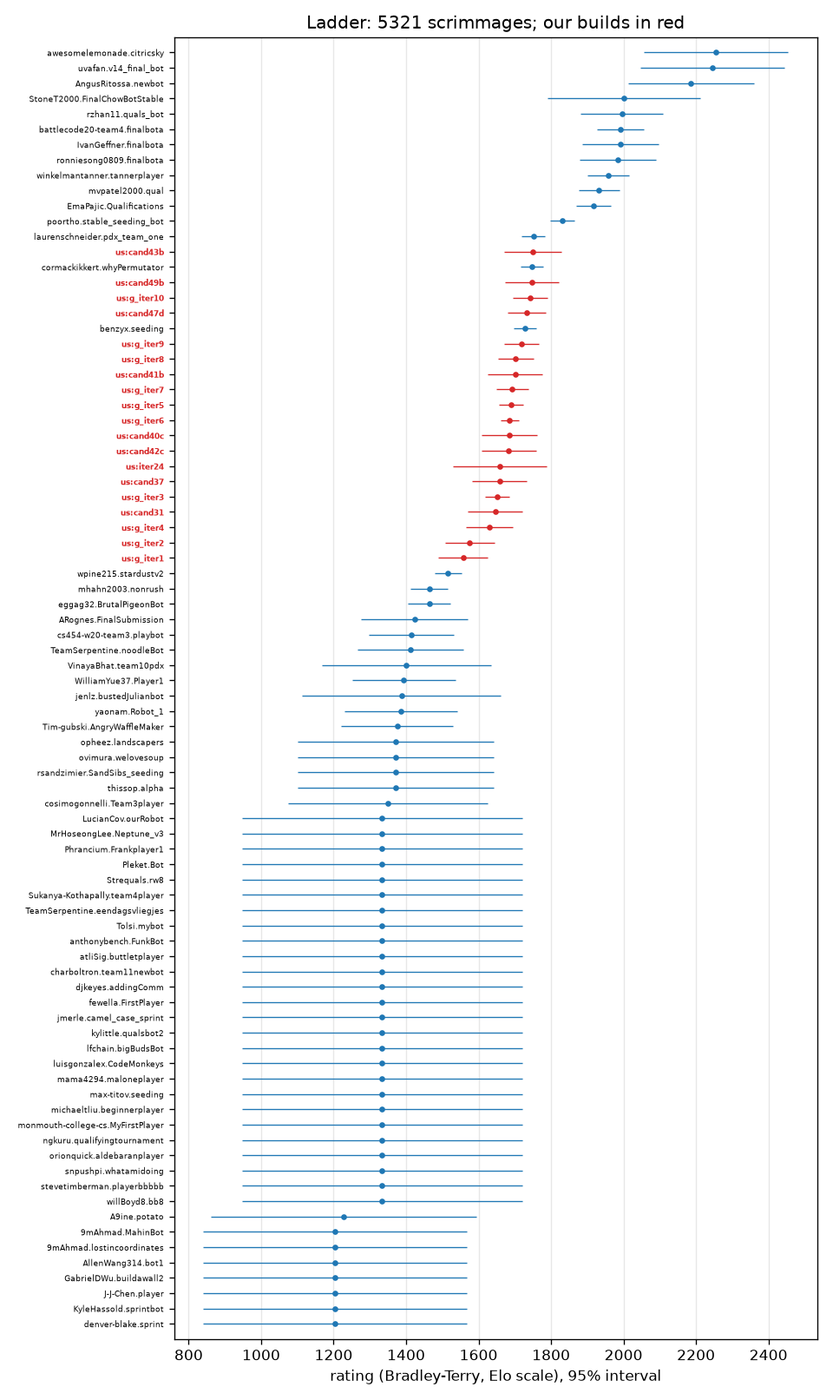
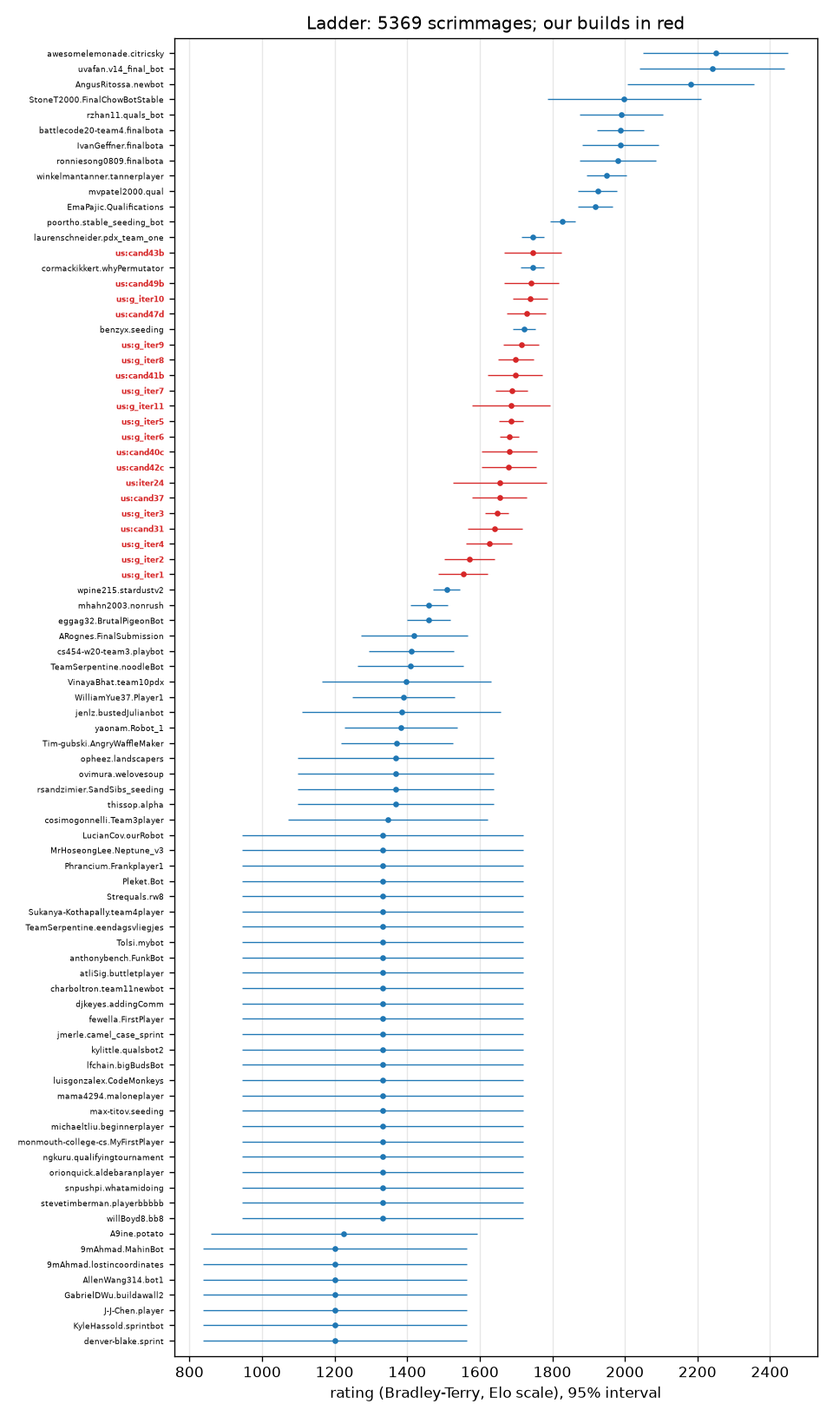
Submission block 20260926-011009-scrim-g_iter11 posted (g_iter11)
Claude-Session: https://claude.ai/code/session_015tNyF5ucwWW1mudpEQTT25

diff --git a/progress/ELO.md b/progress/ELO.md
@@ -1,114 +1,116 @@
 # Ladder
 
-5321 scrimmages (ours only), 4797 distinct (a repeated pairing with the same seed replays the same game and counts once), rated by a batch Bradley-Terry fit on the Elo scale (`tools/elolib.py`); each of our builds is its own player. 65 of 65 ladder bots met.
+5369 scrimmages (ours only), 4845 distinct (a repeated pairing with the same seed replays the same game and counts once), rated by a batch Bradley-Terry fit on the Elo scale (`tools/elolib.py`); each of our builds is its own player. 65 of 65 ladder bots met.
 
 Our builds (rating +- 95%; field score = expected score against every ladder bot, one game each):
 
 | build | rating | rank | games | record | field score |
 |---|---|---|---|---|---|
-| cand43b | 1750 +- 79 | 14 of 84 | 96 | 64-32 | 76.0% |
-| cand49b | 1747 +- 74 | 16 of 84 | 96 | 42-54 | 75.8% |
-| g_iter10 | 1743 +- 47 | 17 of 84 | 240 | 103-137 | 75.6% |
-| cand47d | 1733 +- 53 | 18 of 84 | 192 | 73-119 | 75.0% |
-| g_iter9 | 1718 +- 48 | 20 of 84 | 240 | 78-162 | 74.1% |
-| g_iter8 | 1703 +- 49 | 21 of 84 | 240 | 108-132 | 73.1% |
-| cand41b | 1701 +- 76 | 22 of 84 | 96 | 51-45 | 73.0% |
-| g_iter7 | 1692 +- 44 | 23 of 84 | 288 | 135-153 | 72.4% |
-| g_iter5 | 1690 +- 34 | 24 of 84 | 618 | 329-289 | 72.3% |
-| g_iter6 | 1686 +- 26 | 25 of 84 | 886 | 450-436 | 72.0% |
-| cand40c | 1686 +- 77 | 26 of 84 | 96 | 57-39 | 72.0% |
-| cand42c | 1684 +- 76 | 27 of 84 | 96 | 49-47 | 71.9% |
-| iter24 | 1659 +- 129 | 28 of 84 | 46 | 11-35 | 70.2% |
-| cand37 | 1658 +- 76 | 29 of 84 | 96 | 46-50 | 70.1% |
-| g_iter3 | 1651 +- 33 | 30 of 84 | 796 | 167-629 | 69.6% |
-| cand31 | 1645 +- 76 | 31 of 84 | 96 | 52-44 | 69.2% |
-| g_iter4 | 1630 +- 64 | 32 of 84 | 217 | 43-174 | 68.1% |
-| g_iter2 | 1576 +- 69 | 33 of 84 | 192 | 44-148 | 63.7% |
-| g_iter1 | 1557 +- 69 | 34 of 84 | 170 | 95-75 | 62.1% |
+| cand43b | 1746 +- 79 | 14 of 85 | 96 | 64-32 | 75.9% |
+| cand49b | 1742 +- 74 | 16 of 85 | 96 | 42-54 | 75.7% |
+| g_iter10 | 1739 +- 47 | 17 of 85 | 240 | 103-137 | 75.5% |
+| cand47d | 1729 +- 53 | 18 of 85 | 192 | 73-119 | 74.9% |
+| g_iter9 | 1714 +- 48 | 20 of 85 | 240 | 78-162 | 74.0% |
+| g_iter8 | 1699 +- 49 | 21 of 85 | 240 | 108-132 | 73.1% |
+| cand41b | 1697 +- 76 | 22 of 85 | 96 | 51-45 | 73.0% |
+| g_iter7 | 1688 +- 44 | 23 of 85 | 288 | 135-153 | 72.4% |
+| g_iter11 | 1687 +- 107 | 24 of 85 | 48 | 18-30 | 72.3% |
+| g_iter5 | 1686 +- 34 | 25 of 85 | 618 | 329-289 | 72.2% |
+| g_iter6 | 1682 +- 26 | 26 of 85 | 886 | 450-436 | 71.9% |
+| cand40c | 1682 +- 77 | 27 of 85 | 96 | 57-39 | 71.9% |
+| cand42c | 1680 +- 76 | 28 of 85 | 96 | 49-47 | 71.8% |
+| iter24 | 1655 +- 129 | 29 of 85 | 46 | 11-35 | 70.1% |
+| cand37 | 1654 +- 76 | 30 of 85 | 96 | 46-50 | 70.0% |
+| g_iter3 | 1647 +- 33 | 31 of 85 | 796 | 167-629 | 69.5% |
+| cand31 | 1641 +- 76 | 32 of 85 | 96 | 52-44 | 69.1% |
+| g_iter4 | 1626 +- 64 | 33 of 85 | 217 | 43-174 | 67.9% |
+| g_iter2 | 1571 +- 69 | 34 of 85 | 192 | 44-148 | 63.6% |
+| g_iter1 | 1554 +- 69 | 35 of 85 | 170 | 95-75 | 62.1% |
 
 | rank | player | rating | +- 95% | games | W-L |
 |---|---|---|---|---|---|
-| 1 | awesomelemonade.citricsky | 2255 | 200 | 103 | 101-2 |
-| 2 | uvafan.v14_final_bot | 2245 | 200 | 98 | 96-2 |
-| 3 | AngusRitossa.newbot | 2186 | 174 | 95 | 92-3 |
-| 4 | StoneT2000.FinalChowBotStable | 2001 | 212 | 21 | 19-2 |
-| 5 | rzhan11.quals_bot | 1995 | 115 | 86 | 77-9 |
-| 6 | battlecode20-team4.finalbota | 1992 | 65 | 226 | 195-31 |
-| 7 | IvanGeffner.finalbota | 1992 | 105 | 101 | 90-11 |
-| 8 | ronniesong0809.finalbota | 1985 | 105 | 97 | 86-11 |
-| 9 | winkelmantanner.tannerplayer | 1958 | 57 | 248 | 205-43 |
-| 10 | mvpatel2000.qual | 1932 | 56 | 235 | 189-46 |
-| 11 | EmaPajic.Qualifications | 1918 | 48 | 299 | 236-63 |
-| 12 | poortho.stable_seeding_bot | 1831 | 34 | 467 | 324-143 |
-| 13 | laurenschneider.pdx_team_one | 1751 | 32 | 482 | 284-198 |
-| 14 | **us:cand43b** | 1750 | 79 | 96 | 64-32 |
-| 15 | cormackikkert.whyPermutator | 1747 | 32 | 475 | 277-198 |
-| 16 | **us:cand49b** | 1747 | 74 | 96 | 42-54 |
-| 17 | **us:g_iter10** | 1743 | 47 | 240 | 103-137 |
-| 18 | **us:cand47d** | 1733 | 53 | 192 | 73-119 |
-| 19 | benzyx.seeding | 1727 | 31 | 478 | 266-212 |
-| 20 | **us:g_iter9** | 1718 | 48 | 240 | 78-162 |
-| 21 | **us:g_iter8** | 1703 | 49 | 240 | 108-132 |
-| 22 | **us:cand41b** | 1701 | 76 | 96 | 51-45 |
-| 23 | **us:g_iter7** | 1692 | 44 | 288 | 135-153 |
-| 24 | **us:g_iter5** | 1690 | 34 | 618 | 329-289 |
-| 25 | **us:g_iter6** | 1686 | 26 | 886 | 450-436 |
-| 26 | **us:cand40c** | 1686 | 77 | 96 | 57-39 |
-| 27 | **us:cand42c** | 1684 | 76 | 96 | 49-47 |
-| 28 | **us:iter24** | 1659 | 129 | 46 | 11-35 |
-| 29 | **us:cand37** | 1658 | 76 | 96 | 46-50 |
-| 30 | **us:g_iter3** | 1651 | 33 | 796 | 167-629 |
-| 31 | **us:cand31** | 1645 | 76 | 96 | 52-44 |
-| 32 | **us:g_iter4** | 1630 | 64 | 217 | 43-174 |
-| 33 | **us:g_iter2** | 1576 | 69 | 192 | 44-148 |
-| 34 | **us:g_iter1** | 1557 | 69 | 170 | 95-75 |
-| 35 | wpine215.stardustv2 | 1516 | 37 | 431 | 119-312 |
-| 36 | mhahn2003.nonrush | 1464 | 52 | 250 | 56-194 |
-| 37 | eggag32.BrutalPigeonBot | 1463 | 59 | 194 | 42-152 |
-| 38 | ARognes.FinalSubmission | 1423 | 147 | 31 | 6-25 |
-| 39 | cs454-w20-team3.playbot | 1415 | 117 | 50 | 10-40 |
-| 40 | TeamSerpentine.noodleBot | 1413 | 146 | 32 | 6-26 |
-| 41 | VinayaBhat.team10pdx | 1401 | 233 | 9 | 2-7 |
-| 42 | WilliamYue37.Player1 | 1393 | 142 | 40 | 6-34 |
-| 43 | jenlz.bustedJulianbot | 1387 | 275 | 8 | 1-7 |
-| 44 | yaonam.Robot_1 | 1385 | 156 | 33 | 5-28 |
-| 45 | Tim-gubski.AngryWaffleMaker | 1375 | 155 | 32 | 5-27 |
-| 46 | opheez.landscapers | 1371 | 271 | 9 | 1-8 |
-| 47 | ovimura.welovesoup | 1371 | 271 | 9 | 1-8 |
-| 48 | rsandzimier.SandSibs_seeding | 1371 | 271 | 9 | 1-8 |
-| 49 | thissop.alpha | 1371 | 271 | 9 | 1-8 |
-| 50 | cosimogonnelli.Team3player | 1349 | 276 | 7 | 1-6 |
-| 51 | LucianCov.ourRobot | 1334 | 387 | 3 | 0-3 |
-| 52 | MrHoseongLee.Neptune_v3 | 1334 | 387 | 3 | 0-3 |
-| 53 | Phrancium.Frankplayer1 | 1334 | 387 | 3 | 0-3 |
-| 54 | Pleket.Bot | 1334 | 387 | 3 | 0-3 |
-| 55 | Strequals.rw8 | 1334 | 387 | 3 | 0-3 |
-| 56 | Sukanya-Kothapally.team4player | 1334 | 387 | 3 | 0-3 |
-| 57 | TeamSerpentine.eendagsvliegjes | 1334 | 387 | 3 | 0-3 |
-| 58 | Tolsi.mybot | 1334 | 387 | 3 | 0-3 |
-| 59 | anthonybench.FunkBot | 1334 | 387 | 3 | 0-3 |
-| 60 | atliSig.buttletplayer | 1334 | 387 | 3 | 0-3 |
-| 61 | charboltron.team11newbot | 1334 | 387 | 3 | 0-3 |
-| 62 | djkeyes.addingComm | 1334 | 387 | 3 | 0-3 |
-| 63 | fewella.FirstPlayer | 1334 | 387 | 3 | 0-3 |
-| 64 | jmerle.camel_case_sprint | 1334 | 387 | 3 | 0-3 |
-| 65 | kylittle.qualsbot2 | 1334 | 387 | 3 | 0-3 |
-| 66 | lfchain.bigBudsBot | 1334 | 387 | 3 | 0-3 |
-| 67 | luisgonzalex.CodeMonkeys | 1334 | 387 | 3 | 0-3 |
-| 68 | mama4294.maloneplayer | 1334 | 387 | 3 | 0-3 |
-| 69 | max-titov.seeding | 1334 | 387 | 3 | 0-3 |
-| 70 | michaeltliu.beginnerplayer | 1334 | 387 | 3 | 0-3 |
-| 71 | monmouth-college-cs.MyFirstPlayer | 1334 | 387 | 3 | 0-3 |
-| 72 | ngkuru.qualifyingtournament | 1334 | 387 | 3 | 0-3 |
-| 73 | orionquick.aldebaranplayer | 1334 | 387 | 3 | 0-3 |
-| 74 | snpushpi.whatamidoing | 1334 | 387 | 3 | 0-3 |
-| 75 | stevetimberman.playerbbbbb | 1334 | 387 | 3 | 0-3 |
-| 76 | willBoyd8.bb8 | 1334 | 387 | 3 | 0-3 |
-| 77 | A9ine.potato | 1228 | 366 | 6 | 0-6 |
-| 78 | 9mAhmad.MahinBot | 1203 | 363 | 7 | 0-7 |
-| 79 | 9mAhmad.lostincoordinates | 1203 | 363 | 7 | 0-7 |
-| 80 | AllenWang314.bot1 | 1203 | 363 | 7 | 0-7 |
-| 81 | GabrielDWu.buildawall2 | 1203 | 363 | 7 | 0-7 |
-| 82 | J-J-Chen.player | 1203 | 363 | 7 | 0-7 |
-| 83 | KyleHassold.sprintbot | 1203 | 363 | 7 | 0-7 |
-| 84 | denver-blake.sprint | 1203 | 363 | 7 | 0-7 |
+| 1 | awesomelemonade.citricsky | 2250 | 200 | 103 | 101-2 |
+| 2 | uvafan.v14_final_bot | 2241 | 200 | 98 | 96-2 |
+| 3 | AngusRitossa.newbot | 2182 | 174 | 95 | 92-3 |
+| 4 | StoneT2000.FinalChowBotStable | 1997 | 212 | 21 | 19-2 |
+| 5 | rzhan11.quals_bot | 1991 | 115 | 86 | 77-9 |
+| 6 | battlecode20-team4.finalbota | 1988 | 65 | 226 | 195-31 |
+| 7 | IvanGeffner.finalbota | 1987 | 105 | 101 | 90-11 |
+| 8 | ronniesong0809.finalbota | 1981 | 105 | 97 | 86-11 |
+| 9 | winkelmantanner.tannerplayer | 1950 | 56 | 254 | 209-45 |
+| 10 | mvpatel2000.qual | 1924 | 55 | 241 | 193-48 |
+| 11 | EmaPajic.Qualifications | 1918 | 48 | 305 | 242-63 |
+| 12 | poortho.stable_seeding_bot | 1828 | 34 | 473 | 329-144 |
+| 13 | laurenschneider.pdx_team_one | 1746 | 31 | 488 | 287-201 |
+| 14 | **us:cand43b** | 1746 | 79 | 96 | 64-32 |
+| 15 | cormackikkert.whyPermutator | 1745 | 32 | 481 | 282-199 |
+| 16 | **us:cand49b** | 1742 | 74 | 96 | 42-54 |
+| 17 | **us:g_iter10** | 1739 | 47 | 240 | 103-137 |
+| 18 | **us:cand47d** | 1729 | 53 | 192 | 73-119 |
+| 19 | benzyx.seeding | 1723 | 31 | 484 | 269-215 |
+| 20 | **us:g_iter9** | 1714 | 48 | 240 | 78-162 |
+| 21 | **us:g_iter8** | 1699 | 49 | 240 | 108-132 |
+| 22 | **us:cand41b** | 1697 | 76 | 96 | 51-45 |
+| 23 | **us:g_iter7** | 1688 | 44 | 288 | 135-153 |
+| 24 | **us:g_iter11** | 1687 | 107 | 48 | 18-30 |
+| 25 | **us:g_iter5** | 1686 | 34 | 618 | 329-289 |
+| 26 | **us:g_iter6** | 1682 | 26 | 886 | 450-436 |
+| 27 | **us:cand40c** | 1682 | 77 | 96 | 57-39 |
+| 28 | **us:cand42c** | 1680 | 76 | 96 | 49-47 |
+| 29 | **us:iter24** | 1655 | 129 | 46 | 11-35 |
+| 30 | **us:cand37** | 1654 | 76 | 96 | 46-50 |
+| 31 | **us:g_iter3** | 1647 | 33 | 796 | 167-629 |
+| 32 | **us:cand31** | 1641 | 76 | 96 | 52-44 |
+| 33 | **us:g_iter4** | 1626 | 64 | 217 | 43-174 |
+| 34 | **us:g_iter2** | 1571 | 69 | 192 | 44-148 |
+| 35 | **us:g_iter1** | 1554 | 69 | 170 | 95-75 |
+| 36 | wpine215.stardustv2 | 1509 | 37 | 437 | 119-318 |
+| 37 | mhahn2003.nonrush | 1460 | 52 | 250 | 56-194 |
+| 38 | eggag32.BrutalPigeonBot | 1460 | 59 | 194 | 42-152 |
+| 39 | ARognes.FinalSubmission | 1419 | 147 | 31 | 6-25 |
+| 40 | cs454-w20-team3.playbot | 1411 | 117 | 50 | 10-40 |
+| 41 | TeamSerpentine.noodleBot | 1409 | 146 | 32 | 6-26 |
+| 42 | VinayaBhat.team10pdx | 1398 | 233 | 9 | 2-7 |
+| 43 | WilliamYue37.Player1 | 1390 | 142 | 40 | 6-34 |
+| 44 | jenlz.bustedJulianbot | 1384 | 275 | 8 | 1-7 |
+| 45 | yaonam.Robot_1 | 1382 | 155 | 33 | 5-28 |
+| 46 | Tim-gubski.AngryWaffleMaker | 1372 | 155 | 32 | 5-27 |
+| 47 | opheez.landscapers | 1368 | 271 | 9 | 1-8 |
+| 48 | ovimura.welovesoup | 1368 | 271 | 9 | 1-8 |
+| 49 | rsandzimier.SandSibs_seeding | 1368 | 271 | 9 | 1-8 |
+| 50 | thissop.alpha | 1368 | 271 | 9 | 1-8 |
+| 51 | cosimogonnelli.Team3player | 1347 | 276 | 7 | 1-6 |
+| 52 | LucianCov.ourRobot | 1332 | 387 | 3 | 0-3 |
+| 53 | MrHoseongLee.Neptune_v3 | 1332 | 387 | 3 | 0-3 |
+| 54 | Phrancium.Frankplayer1 | 1332 | 387 | 3 | 0-3 |
+| 55 | Pleket.Bot | 1332 | 387 | 3 | 0-3 |
+| 56 | Strequals.rw8 | 1332 | 387 | 3 | 0-3 |
+| 57 | Sukanya-Kothapally.team4player | 1332 | 387 | 3 | 0-3 |
+| 58 | TeamSerpentine.eendagsvliegjes | 1332 | 387 | 3 | 0-3 |
+| 59 | Tolsi.mybot | 1332 | 387 | 3 | 0-3 |
+| 60 | anthonybench.FunkBot | 1332 | 387 | 3 | 0-3 |
+| 61 | atliSig.buttletplayer | 1332 | 387 | 3 | 0-3 |
+| 62 | charboltron.team11newbot | 1332 | 387 | 3 | 0-3 |
+| 63 | djkeyes.addingComm | 1332 | 387 | 3 | 0-3 |
+| 64 | fewella.FirstPlayer | 1332 | 387 | 3 | 0-3 |
+| 65 | jmerle.camel_case_sprint | 1332 | 387 | 3 | 0-3 |
+| 66 | kylittle.qualsbot2 | 1332 | 387 | 3 | 0-3 |
+| 67 | lfchain.bigBudsBot | 1332 | 387 | 3 | 0-3 |
+| 68 | luisgonzalex.CodeMonkeys | 1332 | 387 | 3 | 0-3 |
+| 69 | mama4294.maloneplayer | 1332 | 387 | 3 | 0-3 |
+| 70 | max-titov.seeding | 1332 | 387 | 3 | 0-3 |
+| 71 | michaeltliu.beginnerplayer | 1332 | 387 | 3 | 0-3 |
+| 72 | monmouth-college-cs.MyFirstPlayer | 1332 | 387 | 3 | 0-3 |
+| 73 | ngkuru.qualifyingtournament | 1332 | 387 | 3 | 0-3 |
+| 74 | orionquick.aldebaranplayer | 1332 | 387 | 3 | 0-3 |
+| 75 | snpushpi.whatamidoing | 1332 | 387 | 3 | 0-3 |
+| 76 | stevetimberman.playerbbbbb | 1332 | 387 | 3 | 0-3 |
+| 77 | willBoyd8.bb8 | 1332 | 387 | 3 | 0-3 |
+| 78 | A9ine.potato | 1226 | 366 | 6 | 0-6 |
+| 79 | 9mAhmad.MahinBot | 1201 | 363 | 7 | 0-7 |
+| 80 | 9mAhmad.lostincoordinates | 1201 | 363 | 7 | 0-7 |
+| 81 | AllenWang314.bot1 | 1201 | 363 | 7 | 0-7 |
+| 82 | GabrielDWu.buildawall2 | 1201 | 363 | 7 | 0-7 |
+| 83 | J-J-Chen.player | 1201 | 363 | 7 | 0-7 |
+| 84 | KyleHassold.sprintbot | 1201 | 363 | 7 | 0-7 |
+| 85 | denver-blake.sprint | 1201 | 363 | 7 | 0-7 |

diff --git a/progress/ONSET.md b/progress/ONSET.md
@@ -1,6 +1,6 @@
 # Which metric starts predicting the result first
 
-39 games, 20 wins. Noise floor about 0.32; a correlation inside that band is not evidence.
+38 games, 16 wins. Noise floor about 0.32; a correlation inside that band is not evidence.
 
 Every metric is oriented so **higher is better for us**, so a positive correlation always means
 "this being better goes with winning". `~avg` is the running mean over all rounds so far rather than
@@ -12,46 +12,46 @@ See `progress/METRICS.md` for how each quantity is computed.
 
 | onset | anti | metric | peak corr | r100 | r200 | r300 | r400 | r600 | r900 |
 |---|---|---|---|---|---|---|---|---|---|
-| r50 | - | mines (us-them) | +0.53 | +0.27 | +0.38 | +0.45 | +0.53 | +0.40 | +0.36 |
-| r50 | - | mines (us-them) ~avg | +0.49 | +0.28 | +0.34 | +0.38 | +0.46 | +0.48 | +0.41 |
-| r150 | - | robots (us-them) | +0.55 | +0.13 | +0.38 | +0.45 | +0.55 | +0.44 | +0.41 |
-| r150 | - | spawned (us-them) | +0.48 | +0.13 | +0.34 | +0.38 | +0.48 | +0.41 | +0.43 |
-| r150 | - | worth (us-them) | +0.57 | +0.28 | +0.46 | +0.49 | +0.57 | +0.48 | +0.42 |
-| r150 | - | worth (us-them) ~avg | +0.54 | +0.28 | +0.43 | +0.46 | +0.53 | +0.53 | +0.46 |
-| r250 | - | robots (us-them) ~avg | +0.53 | +0.09 | +0.29 | +0.35 | +0.49 | +0.51 | +0.48 |
-| r250 | - | spawned (us-them) ~avg | +0.51 | +0.09 | +0.27 | +0.29 | +0.40 | +0.48 | +0.48 |
-| r250 | - | units (us-them) | +0.49 | +0.05 | +0.27 | +0.34 | +0.49 | +0.37 | +0.40 |
-| r250 | - | vaporators (us-them) | +0.45 | -0.01 | +0.21 | +0.33 | +0.35 | +0.44 | +0.35 |
-| r300 | - | drones (us-them) | +0.37 | +0.29 | +0.18 | +0.32 | +0.28 | +0.19 | +0.32 |
-| r300 | - | drones (us-them) ~avg | +0.33 | +0.29 | +0.19 | +0.30 | +0.31 | +0.22 | +0.30 |
-| r350 | - | died (us-them) [inverted] | +0.44 | . | +0.21 | +0.25 | +0.40 | +0.41 | +0.19 |
-| r350 | - | died (us-them) [inverted] ~avg | +0.41 | . | +0.23 | +0.26 | +0.35 | +0.40 | +0.36 |
-| r350 | - | landscapers (us-them) | +0.62 | +0.12 | +0.24 | +0.24 | +0.55 | +0.43 | +0.54 |
-| r350 | - | pickups (us-them) | +0.41 | -0.16 | +0.07 | +0.16 | +0.32 | +0.36 | +0.35 |
-| r350 | - | units (us-them) ~avg | +0.51 | -0.03 | +0.18 | +0.22 | +0.38 | +0.46 | +0.47 |
-| r400 | - | landscapers (us-them) ~avg | +0.63 | +0.12 | +0.24 | +0.17 | +0.37 | +0.55 | +0.62 |
-| r400 | - | vaporators (us-them) ~avg | +0.43 | +0.07 | +0.20 | +0.28 | +0.31 | +0.38 | +0.37 |
-| r450 | - | digs (us-them) | +0.66 | +0.18 | +0.16 | +0.17 | +0.29 | +0.45 | +0.61 |
-| r500 | - | dirtDeps (us-them) | +0.66 | +0.27 | +0.16 | +0.15 | +0.23 | +0.43 | +0.59 |
-| r500 | - | pickups (us-them) ~avg | +0.39 | -0.16 | -0.02 | +0.10 | +0.25 | +0.33 | +0.35 |
-| r550 | - | digs (us-them) ~avg | +0.65 | +0.13 | +0.15 | +0.15 | +0.23 | +0.36 | +0.55 |
-| r550 | - | netguns (us-them) | +0.32 | . | -0.07 | -0.04 | -0.04 | +0.32 | +0.18 |
-| r600 | - | dirtDeps (us-them) ~avg | +0.64 | +0.24 | +0.13 | +0.12 | +0.18 | +0.33 | +0.52 |
-| r700 | - | moves (us-them) | +0.35 | -0.25 | -0.14 | -0.05 | +0.12 | +0.28 | +0.32 |
-| r800 | - | moves (us-them) ~avg | +0.35 | -0.22 | -0.18 | -0.09 | -0.01 | +0.17 | +0.32 |
-| - | r900 | aba (us-them) [inverted] | -0.32 | +0.28 | +0.07 | -0.01 | -0.03 | -0.24 | -0.30 |
-| - | r1000 | aba (us-them) [inverted] ~avg | -0.31 | +0.28 | +0.21 | +0.08 | +0.03 | -0.11 | -0.26 |
-| - | - | cov (us-them) | -0.25 | -0.23 | -0.22 | -0.18 | -0.15 | -0.01 | +0.06 |
-| - | - | cov (us-them) ~avg | -0.23 | -0.17 | -0.21 | -0.20 | -0.20 | -0.13 | -0.04 |
+| r200 | - | vaporators (us-them) | +0.42 | +0.23 | +0.32 | +0.40 | +0.38 | +0.40 | +0.35 |
+| r250 | - | drones (us-them) | +0.44 | -0.04 | +0.28 | +0.41 | +0.43 | +0.39 | +0.38 |
+| r250 | - | drones (us-them) ~avg | +0.41 | -0.04 | +0.20 | +0.34 | +0.41 | +0.38 | +0.37 |
+| r250 | - | miners (us-them) | +0.54 | +0.13 | +0.26 | +0.40 | +0.47 | +0.54 | +0.51 |
+| r250 | - | miners (us-them) ~avg | +0.48 | +0.17 | +0.28 | +0.36 | +0.42 | +0.47 | +0.48 |
+| r250 | - | mines (us-them) | +0.67 | +0.07 | +0.19 | +0.47 | +0.58 | +0.63 | +0.66 |
+| r250 | - | vaporators (us-them) ~avg | +0.43 | +0.23 | +0.28 | +0.40 | +0.41 | +0.43 | +0.39 |
+| r250 | - | worth (us-them) | +0.64 | +0.07 | +0.21 | +0.50 | +0.61 | +0.61 | +0.52 |
+| r300 | - | robots (us-them) | +0.71 | +0.12 | +0.11 | +0.45 | +0.60 | +0.71 | +0.61 |
+| r300 | - | spawned (us-them) | +0.68 | +0.12 | +0.09 | +0.43 | +0.60 | +0.67 | +0.64 |
+| r300 | - | worth (us-them) ~avg | +0.58 | +0.07 | +0.13 | +0.34 | +0.49 | +0.58 | +0.55 |
+| r350 | - | mines (us-them) ~avg | +0.60 | +0.06 | +0.12 | +0.29 | +0.44 | +0.56 | +0.60 |
+| r350 | - | robots (us-them) ~avg | +0.64 | +0.14 | +0.07 | +0.26 | +0.46 | +0.62 | +0.62 |
+| r350 | - | spawned (us-them) ~avg | +0.63 | +0.14 | +0.05 | +0.24 | +0.45 | +0.60 | +0.62 |
+| r350 | - | units (us-them) | +0.72 | +0.03 | -0.09 | +0.18 | +0.48 | +0.72 | +0.60 |
+| r450 | r750 | died (us-them) [inverted] | -0.43 | . | +0.11 | +0.18 | +0.24 | +0.17 | -0.24 |
+| r450 | r150 | landscapers (us-them) | +0.70 | -0.03 | -0.33 | -0.21 | +0.18 | +0.66 | +0.62 |
+| r450 | - | units (us-them) ~avg | +0.62 | +0.08 | -0.09 | +0.01 | +0.25 | +0.52 | +0.61 |
+| r550 | - | cov (us-them) | +0.45 | +0.00 | +0.23 | +0.19 | +0.26 | +0.38 | +0.43 |
+| r550 | - | moves (us-them) | +0.48 | -0.06 | +0.03 | +0.03 | +0.15 | +0.36 | +0.42 |
+| r650 | r200 | landscapers (us-them) ~avg | +0.63 | -0.04 | -0.31 | -0.31 | -0.18 | +0.23 | +0.54 |
+| r700 | - | cov (us-them) ~avg | +0.36 | -0.06 | +0.12 | +0.15 | +0.19 | +0.26 | +0.34 |
+| r850 | - | moves (us-them) ~avg | +0.37 | -0.07 | +0.04 | +0.04 | +0.09 | +0.22 | +0.31 |
+| r900 | r200 | digs (us-them) | +0.52 | -0.11 | -0.31 | -0.31 | -0.19 | +0.07 | +0.33 |
+| r900 | r200 | dirtDeps (us-them) | +0.51 | -0.15 | -0.36 | -0.34 | -0.22 | +0.04 | +0.31 |
+| r900 | - | pickups (us-them) | +0.38 | -0.15 | +0.14 | +0.20 | +0.29 | +0.16 | +0.32 |
+| r1150 | r200 | digs (us-them) ~avg | +0.35 | -0.11 | -0.30 | -0.33 | -0.28 | -0.12 | +0.13 |
+| r1150 | - | pickups (us-them) ~avg | +0.32 | -0.15 | +0.08 | +0.17 | +0.22 | +0.21 | +0.24 |
+| r1200 | r200 | dirtDeps (us-them) ~avg | -0.36 | -0.15 | -0.35 | -0.36 | -0.31 | -0.15 | +0.09 |
+| - | - | aba (us-them) [inverted] | +0.21 | +0.08 | +0.21 | +0.19 | +0.17 | +0.12 | -0.07 |
+| - | - | aba (us-them) [inverted] ~avg | +0.16 | +0.04 | +0.13 | +0.15 | +0.14 | +0.15 | +0.11 |
+| - | - | died (us-them) [inverted] ~avg | -0.28 | . | +0.21 | +0.22 | +0.23 | +0.24 | -0.08 |
 | - | - | drowned (us-them) [inverted] | . | . | . | . | . | . | . |
 | - | - | drowned (us-them) [inverted] ~avg | . | . | . | . | . | . | . |
-| - | - | hqBuried (us-them) [inverted] | +0.20 | +0.20 | +0.16 | +0.09 | +0.16 | . | -0.02 |
-| - | - | hqBuried (us-them) [inverted] ~avg | +0.22 | +0.20 | +0.22 | +0.19 | +0.20 | +0.18 | +0.09 |
-| - | - | miners (us-them) | +0.27 | -0.25 | -0.11 | +0.02 | -0.10 | +0.07 | -0.02 |
-| - | - | miners (us-them) ~avg | -0.25 | -0.25 | -0.22 | -0.12 | -0.11 | -0.06 | +0.01 |
-| - | - | netguns (us-them) ~avg | +0.21 | . | -0.07 | -0.06 | -0.06 | +0.13 | +0.18 |
-| - | - | soup (us-them) | +0.23 | -0.01 | +0.09 | -0.22 | +0.00 | -0.02 | -0.14 |
-| - | - | soup (us-them) ~avg | +0.27 | +0.03 | +0.03 | -0.02 | -0.01 | +0.01 | -0.16 |
+| - | - | hqBuried (us-them) [inverted] | +0.16 | +0.16 | . | . | . | . | . |
+| - | - | hqBuried (us-them) [inverted] ~avg | +0.16 | +0.16 | . | . | . | . | +0.14 |
+| - | - | netguns (us-them) | -0.19 | . | -0.04 | -0.09 | -0.14 | +0.05 | +0.06 |
+| - | - | netguns (us-them) ~avg | -0.19 | . | -0.10 | -0.10 | -0.12 | -0.07 | -0.03 |
+| - | - | soup (us-them) | +0.27 | -0.15 | +0.07 | +0.24 | +0.17 | +0.07 | +0.07 |
+| - | - | soup (us-them) ~avg | +0.18 | -0.15 | +0.04 | +0.14 | +0.18 | +0.05 | +0.08 |
 
 **Reading it.** Earliest onset is the first place to look: temporal precedence is the one causal hint a
 correlation can honestly give. Late-onset metrics are usually the scoreboard rather than the cause -- by then

diff --git a/BENCHMARK.md b/BENCHMARK.md
@@ -62,7 +62,7 @@ build with at least 200 recorded games: a candidate's short ladder arm never re-
 | `EmaPajic.Mark3` | EmaPajic_Battlecode-2020 (c060a22) | - | - | untested |  |
 | `EmaPajic.Mark4` | EmaPajic_Battlecode-2020 (c060a22) | - | - | untested |  |
 | `EmaPajic.Mark5` | EmaPajic_Battlecode-2020 (c060a22) | - | - | untested |  |
-| `EmaPajic.Qualifications` | EmaPajic_Battlecode-2020 (c060a22) | 30 | 30 | target | 20 0 21 0 50 0 17 38 8 25 10 17 20 33 33 30 |
+| `EmaPajic.Qualifications` | EmaPajic_Battlecode-2020 (c060a22) | 30 | 30 | target | 20 0 21 0 50 0 17 38 8 25 10 17 20 33 33 30 0 |
 | `EmaPajic.SeedingBot` | EmaPajic_Battlecode-2020 (c060a22) | - | - | untested |  |
 | `GabrielDWu.basicbot` | GabrielDWu_blezers-battlecode2020 (c0283f8) | - | - | untested |  |
 | `GabrielDWu.blezerbot` | GabrielDWu_blezers-battlecode2020 (c0283f8) | - | - | untested |  |
@@ -171,11 +171,11 @@ build with at least 200 recorded games: a candidate's short ladder arm never re-
 | `benzyx.espada` | benzyx_bc20-waterloo (05df2e7) | - | - | untested |  |
 | `benzyx.firstplayer` | benzyx_bc20-waterloo (05df2e7) | - | - | untested |  |
 | `benzyx.kurobot` | benzyx_bc20-waterloo (05df2e7) | - | - | untested |  |
-| `benzyx.seeding` | benzyx_bc20-waterloo (05df2e7) | 63 | 30 | peer | 25 17 50 40 25 45 41 33 36 33 33 58 50 25 58 53 50 50 63 |
+| `benzyx.seeding` | benzyx_bc20-waterloo (05df2e7) | 63 | 30 | peer | 25 17 50 40 25 45 41 33 36 33 33 58 50 25 58 53 50 50 63 50 |
 | `benzyx.tortuga` | benzyx_bc20-waterloo (05df2e7) | - | - | untested |  |
 | `charboltron.master_player` | charboltron_pdx_battlecode_2020_team_11 (f78f1e3) | - | - | untested |  |
 | `charboltron.team11newbot` | charboltron_pdx_battlecode_2020_team_11 (f78f1e3) | 100 | 2 | peer(>90 once) | 100 100 |
-| `cormackikkert.whyPermutator` | cormackikkert_battlecode2020 (4d230c4) | 60 | 30 | peer | 25 17 38 40 25 42 45 25 28 25 42 33 47 58 42 50 38 75 60 |
+| `cormackikkert.whyPermutator` | cormackikkert_battlecode2020 (4d230c4) | 60 | 30 | peer | 25 17 38 40 25 42 45 25 28 25 42 33 47 58 42 50 38 75 60 17 |
 | `cormackikkert.whyPermutatorOld` | cormackikkert_battlecode2020 (4d230c4) | - | - | untested |  |
 | `cosimogonnelli.Team3player` | cosimogonnelli_CS454-554-SE (d7dc657) | 100 | 2 | peer(>90 once) | 80 100 |
 | `cs454-w20-team3.oldbot` | cs454-w20-team3_team3-bot (502c334) | - | - | untested |  |
@@ -203,7 +203,7 @@ build with at least 200 recorded games: a candidate's short ladder arm never re-
 | `kylittle.deliriumv1` | kylittle_DeliriumBattlecode (17a94dd) | - | - | untested |  |
 | `kylittle.qualsbot` | kylittle_DeliriumBattlecode (17a94dd) | - | - | untested |  |
 | `kylittle.qualsbot2` | kylittle_DeliriumBattlecode (17a94dd) | 100 | 2 | peer(>90 once) | 100 100 |
-| `laurenschneider.pdx_team_one` | laurenschneider_battlecode20-PDXTeamOne (2965376) | 50 | 30 | peer | 0 50 39 14 0 47 38 0 50 50 50 42 47 42 50 47 50 42 50 |
+| `laurenschneider.pdx_team_one` | laurenschneider_battlecode20-PDXTeamOne (2965376) | 50 | 30 | peer | 0 50 39 14 0 47 38 0 50 50 50 42 47 42 50 47 50 42 50 50 |
 | `lfchain.bigBudsBot` | lfchain_Battlecode2020 (b026153) | 100 | 2 | peer(>90 once) | 100 100 |
 | `lfchain.fBot` | lfchain_Battlecode2020 (b026153) | - | - | untested |  |
 | `lfchain.jBot` | lfchain_Battlecode2020 (b026153) | - | - | untested |  |
@@ -246,7 +246,7 @@ build with at least 200 recorded games: a candidate's short ladder arm never re-
 | `mvpatel2000.oldhades` | mvpatel2000_Battlecode2020 (554943e) | - | - | untested |  |
 | `mvpatel2000.poseidon` | mvpatel2000_Battlecode2020 (554943e) | - | - | untested |  |
 | `mvpatel2000.quail` | mvpatel2000_Battlecode2020 (554943e) | - | - | untested |  |
-| `mvpatel2000.qual` | mvpatel2000_Battlecode2020 (554943e) | 23 | 30 | target | 0 8 24 13 67 12 0 12 20 46 8 23 |
+| `mvpatel2000.qual` | mvpatel2000_Battlecode2020 (554943e) | 23 | 30 | target | 0 8 24 13 67 12 0 12 20 46 8 23 33 |
 | `mvpatel2000.qualAttacc` | mvpatel2000_Battlecode2020 (554943e) | - | - | untested |  |
 | `mvpatel2000.qualNoAtacc` | mvpatel2000_Battlecode2020 (554943e) | - | - | untested |  |
 | `mvpatel2000.seeding` | mvpatel2000_Battlecode2020 (554943e) | - | - | untested |  |
@@ -280,7 +280,7 @@ build with at least 200 recorded games: a candidate's short ladder arm never re-
 | `poortho.rush` | poortho_battlecode-2020 (ebbd61e) | - | - | untested |  |
 | `poortho.rush_bot` | poortho_battlecode-2020 (ebbd61e) | - | - | untested |  |
 | `poortho.stable_miner1` | poortho_battlecode-2020 (ebbd61e) | - | - | untested |  |
-| `poortho.stable_seeding_bot` | poortho_battlecode-2020 (ebbd61e) | 27 | 30 | target | 0 17 27 31 0 30 31 50 39 33 25 33 33 17 42 37 33 17 27 |
+| `poortho.stable_seeding_bot` | poortho_battlecode-2020 (ebbd61e) | 27 | 30 | target | 0 17 27 31 0 30 31 50 39 33 25 33 33 17 42 37 33 17 27 17 |
 | `ps789.dennisTestPlayer` | ps789_AZBattlecode (f1d54ab) | - | - | untested |  |
 | `ps789.phillipTestPlayer` | ps789_AZBattlecode (f1d54ab) | - | - | untested |  |
 | `ronniesong0809.finalbota` | ronniesong0809_battlecode20-RADS (1cee065) | 0 | 11 | locked | 0 18 15 7 0 0 |
@@ -326,9 +326,9 @@ build with at least 200 recorded games: a candidate's short ladder arm never re-
 | `willBoyd8.droideka` | willBoyd8_BattleDroid (4b1d4ad) | - | - | untested |  |
 | `willBoyd8.empire` | willBoyd8_BattleDroid (4b1d4ad) | - | - | untested |  |
 | `willBoyd8.mouse` | willBoyd8_BattleDroid (4b1d4ad) | - | - | untested |  |
-| `winkelmantanner.tannerplayer` | winkelmantanner_battlecode2020_the-levee-builders (7f49f11) | 17 | 30 | locked | 0 25 15 23 0 36 12 8 23 17 25 17 |
+| `winkelmantanner.tannerplayer` | winkelmantanner_battlecode2020_the-levee-builders (7f49f11) | 17 | 30 | locked | 0 25 15 23 0 36 12 8 23 17 25 17 33 |
 | `wpine215.stardustv1` | wpine215_battlecode (d570d57) | - | - | untested |  |
-| `wpine215.stardustv2` | wpine215_battlecode (d570d57) | 73 | 30 | peer | 0 30 50 65 100 70 77 58 78 83 67 75 87 100 83 67 100 73 |
+| `wpine215.stardustv2` | wpine215_battlecode (d570d57) | 73 | 30 | peer | 0 30 50 65 100 70 77 58 78 83 67 75 87 100 83 67 100 73 100 |
 | `yaonam.Robot_1` | yaonam_battlecode2020 (bb363f5) | 83 | 12 | peer | 62 100 83 100 |
 
 285 bot packages from 68 repositories.
